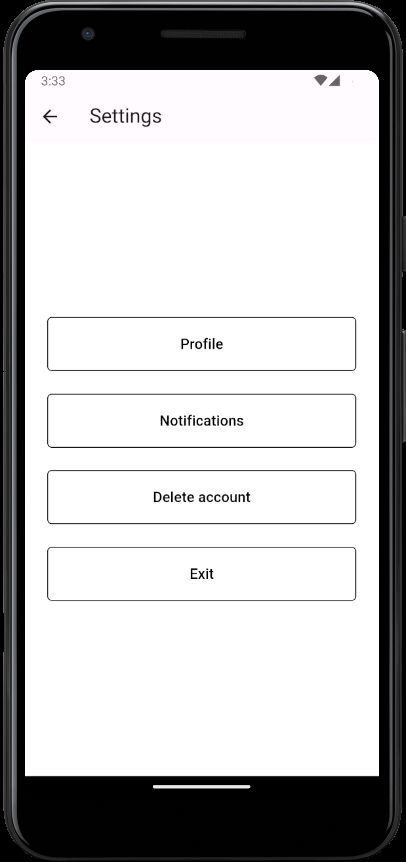
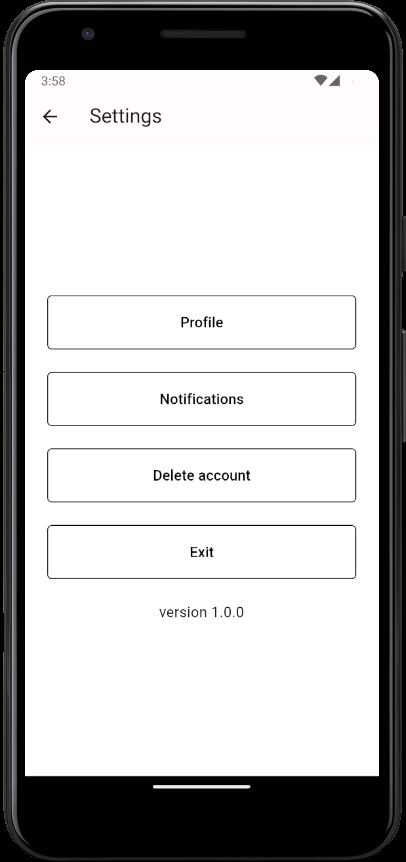
version

diff --git a/lib/core/settings/settings_page.dart b/lib/core/settings/settings_page.dart
@@ -101,6 +101,16 @@ class _SettingsPageState extends State<SettingsPage> {
                           text: "Exit"
                         ),
                     ),
+                    const SizedBox(
+                      height: 25,
+                    ),
+                    const Text(
+                      "version 1.0.0",
+                      textAlign: TextAlign.center,
+                      style: TextStyle(
+                        fontSize: 16
+                      ),
+                    )
                   ],
                 ),
               ),
